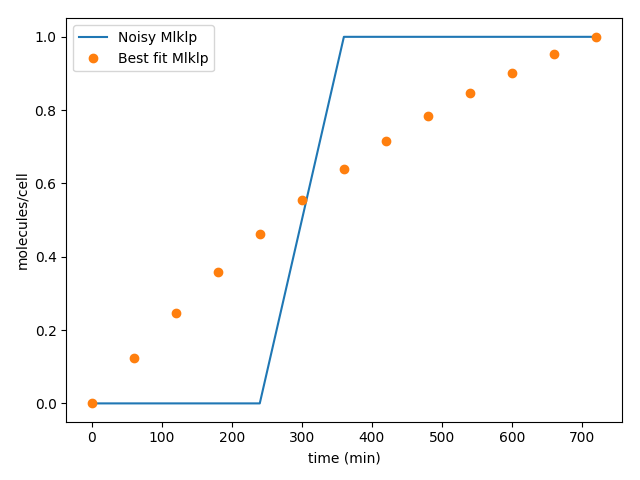
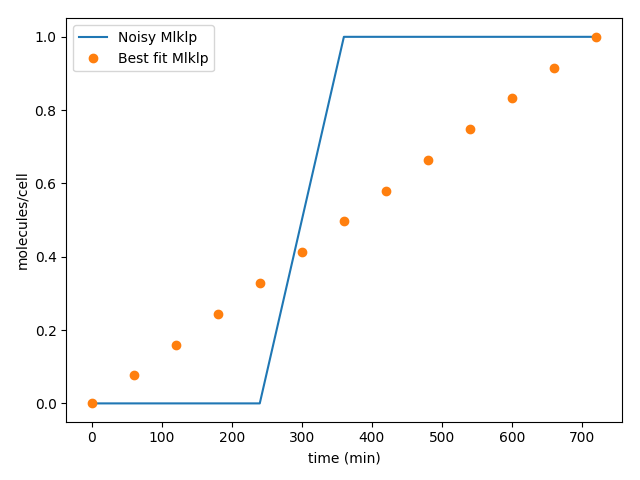
10000 iterations necro model

diff --git a/simplepso/examples/necro_pso.py b/simplepso/examples/necro_pso.py
@@ -143,7 +143,7 @@ def run_example():
     # We also must set bounds. This can be a single scalar or an array of len(start_position)
     optimizer.set_bounds(parameter_range=3)
     optimizer.set_speed(speed_min=-.5, speed_max=.5)
-    optimizer.run(num_particles=25, num_iterations=1000)
+    optimizer.run(num_particles=25, num_iterations=10000)
     print('whatever')
     if plot:
         display(start_position, optimizer.best)
